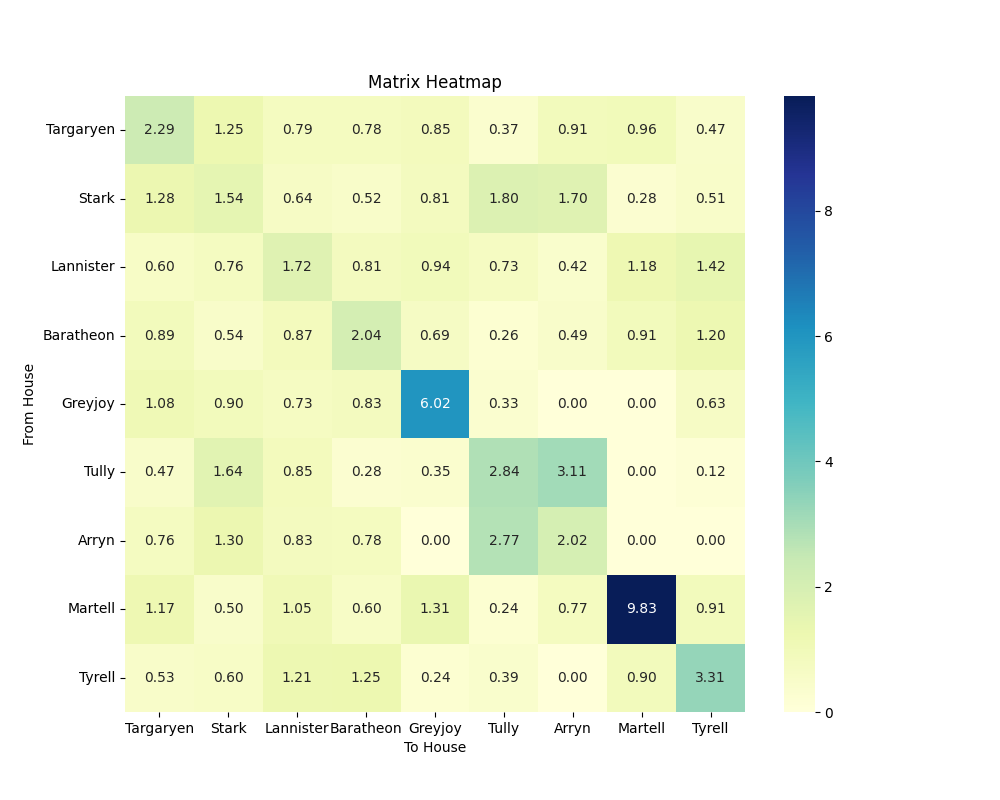
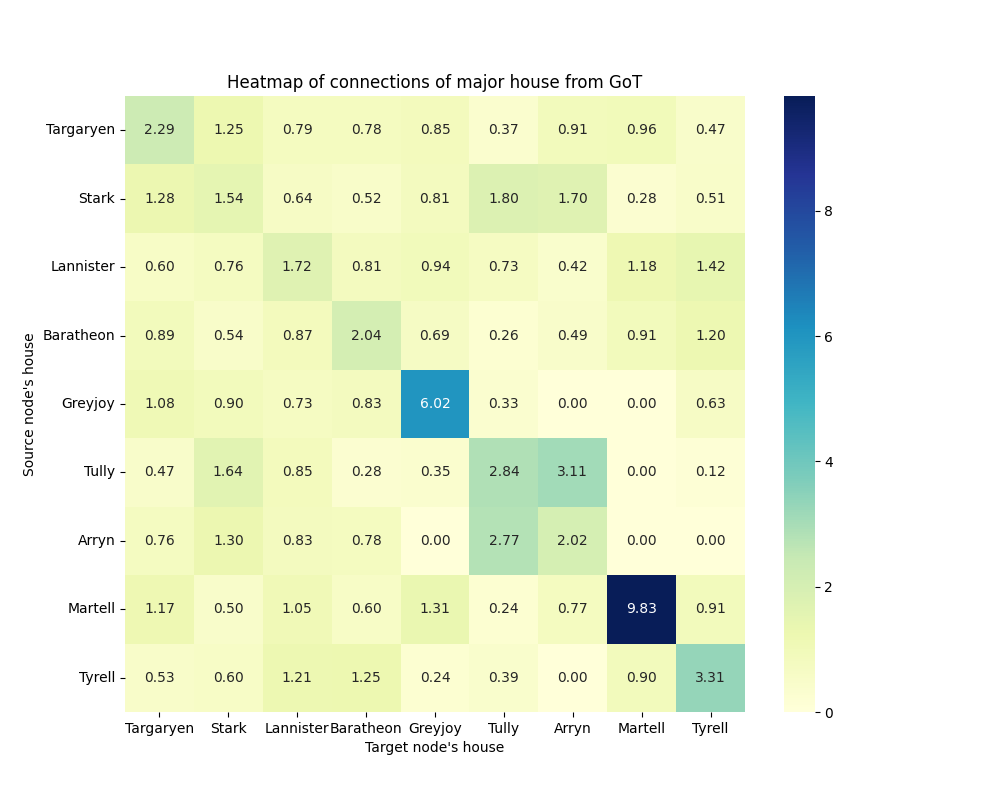
Add files via upload

Changed region(s): [[0.217, 0.0938, 0.651, 0.125], [0.0, 0.4375, 0.031, 0.5938], [0.372, 0.9062, 0.496, 0.9375]]

diff --git a/index.html b/index.html
@@ -3,7 +3,10 @@
 <head>
     <meta charset="UTF-8">
     <meta name="viewport" content="width=device-width, initial-scale=1.0">
-    <title>Static Website</title>
+    <title>Connection between share of female characters and photos/videos on fandom page</title>
+    <!-- Add MathJax script -->
+    <script src="https://polyfill.io/v3/polyfill.min.js?features=es6"></script>
+    <script id="MathJax-script" async src="https://cdn.jsdelivr.net/npm/mathjax@3/es5/tex-mml-chtml.js"></script>
     <style>
         body, html {
             margin: 0;
@@ -21,13 +24,13 @@
         }
 
         img {
-            max-height: 70vh;
-            max-width: 100%;
+            max-height: 85vh;
+            max-width: 85%;
         }
 
         .text {
             padding: 20px;
-            text-align: center;
+            text-align: justify; /* Align text to justify */
             width: 100%;
             box-sizing: border-box;
         }
@@ -37,8 +40,16 @@
     <div class="container">
         <img src="got-houses-heatmap.png" alt="Your Image">
         <div class="text">
-            <p>This is your text below the image.</p>
-            <p>You can add more content here.</p>
+            <p>The above figure depicts the connections between the characters of major houses in the TV series Game of Thrones. The figure was made from the directed graph data of Game of Thrones characters. The cells contain the number of edges between the two houses considering the direction. The number of edges were normalized according to the following formula:</p>
+            <!-- Include the mathematical formula -->
+            <p>\[ S_{st} = \frac{{N_{st} \times N}}{{N_s \times N_t}} \]</p>
+            <p>Where
+                \( N_{st} \) is the number of edges between source node's house \( s \) and target node's house \( t \),
+                \( N \) is \( \sum_{st} N_{st} \),
+                \( N_s \) is \( \sum_t N_{st} \), and
+                \( N_t \) is \( \sum_s N_{st} \).
+               If the value is larger than 1 the connection is frequent. Most houses have more connections among themselves than with other houses. The most cliquey houses are Martell and Greyjoy. The Tully and Arryn are close to each other, which is story accurate since they are allies in the series.
+            </p>
         </div>
     </div>
 </body>
